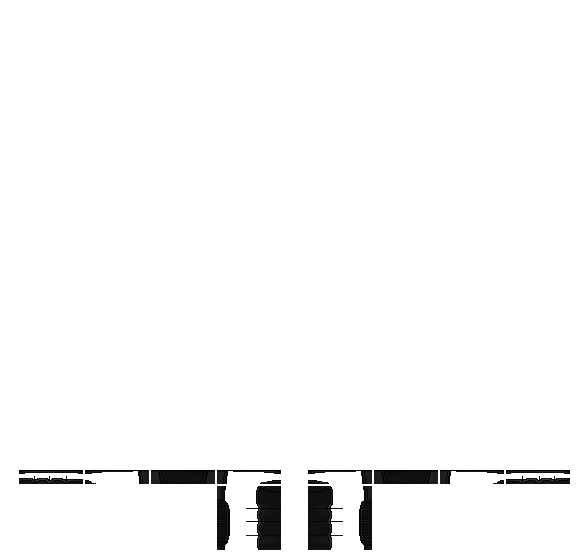
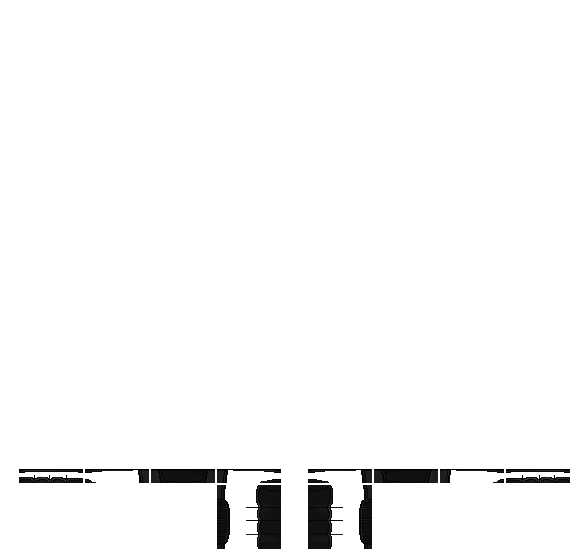
fix: artic gloves.

diff --git a/Innovation Uniform Editor/Properties/AssemblyInfo.cs b/Innovation Uniform Editor/Properties/AssemblyInfo.cs
@@ -32,5 +32,5 @@ using System.Runtime.InteropServices;
 // You can specify all the values or you can default the Build and Revision Numbers
 // by using the '*' as shown below:
 // [assembly: AssemblyVersion("1.0.*")]
-[assembly: AssemblyVersion("1.0.7.5")]
-[assembly: AssemblyFileVersion("1.0.7.5")]
+[assembly: AssemblyVersion("1.0.7.6")]
+[assembly: AssemblyFileVersion("1.0.7.6")]
